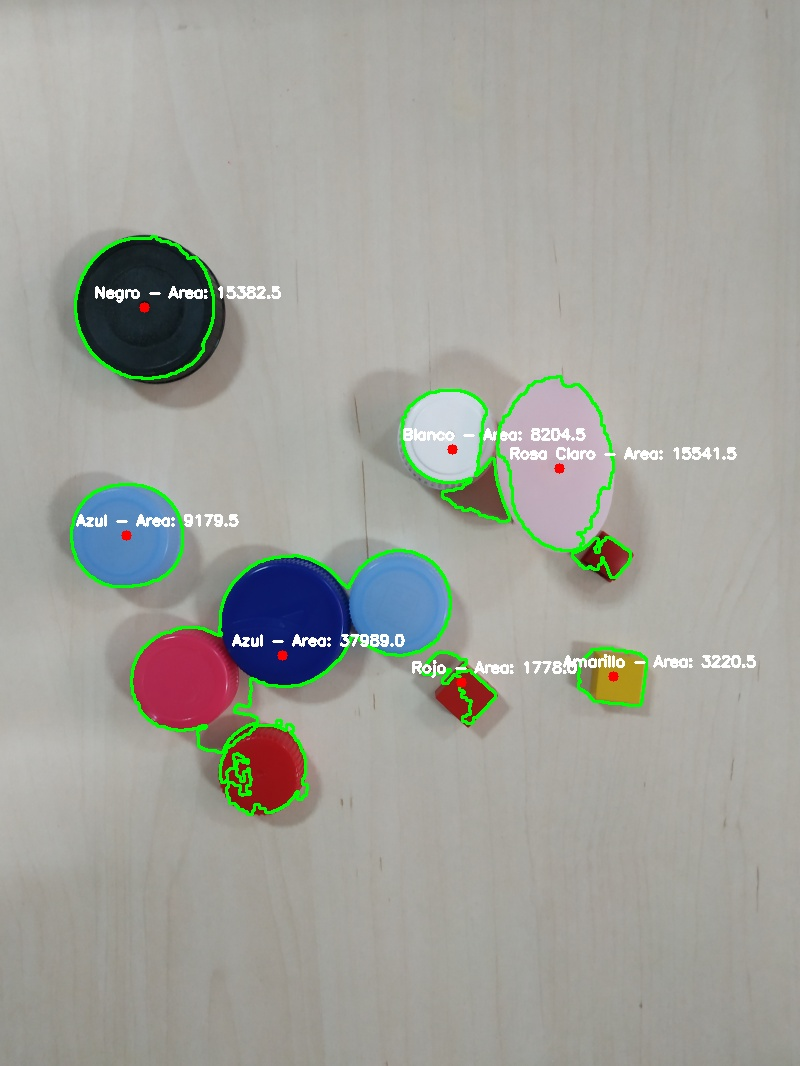
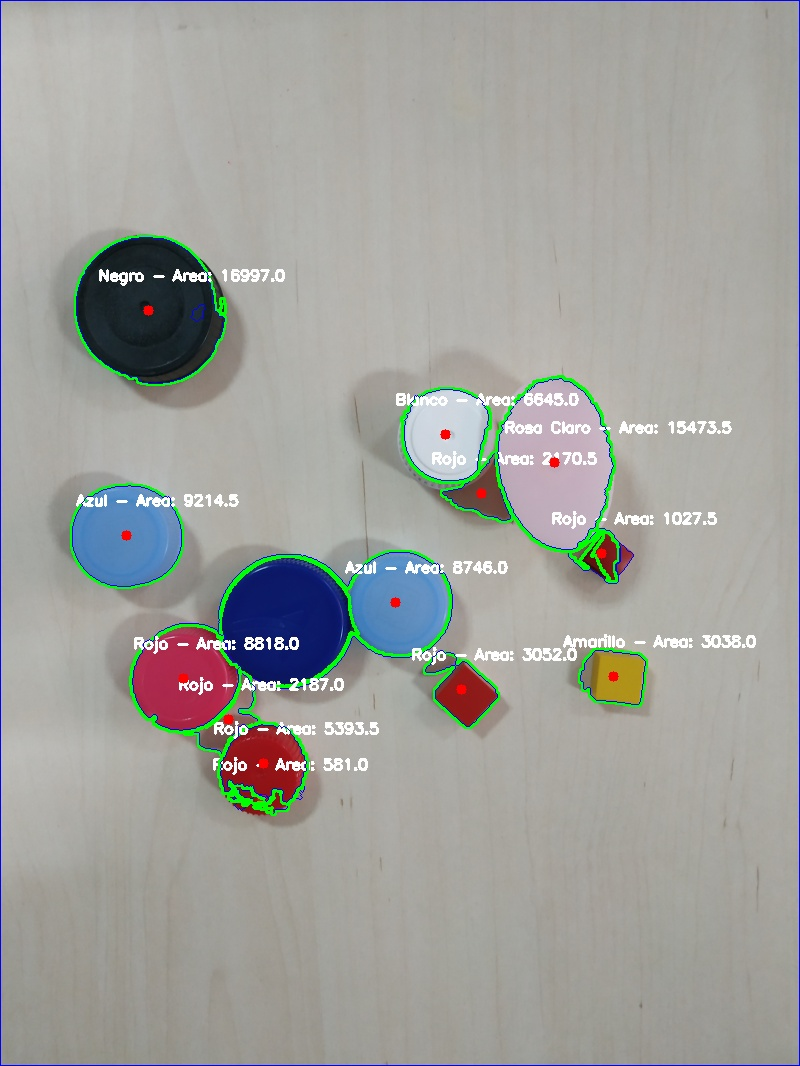
Corrigido bug en la detección de colores

diff --git a/DetectorTaponesMulticolor.py b/DetectorTaponesMulticolor.py
@@ -2,7 +2,7 @@ import cv2
 import numpy as np
 import os
 import imutils
-from visualizador_tapones import VisualizadorTapones  # Importamos la clase de visualización
+
 
 class DetectorTaponesMulticolor:
     """
@@ -17,7 +17,7 @@ class DetectorTaponesMulticolor:
         self.color_names = color_names
         self.min_area = min_area
         self.mostrar_mascaras = mostrar_mascaras
-        self.tapones_detectados = []  # Lista para almacenar los tapones detectados
+        self.tapones_detectados = []
 
         # Crear la carpeta de salida si no existe
         if not os.path.exists(self.output_folder):
@@ -43,9 +43,7 @@ class DetectorTaponesMulticolor:
 
     def detectar_tapon(self, imagen_path):
         """
-        Detecta tapones de múltiples colores en una imagen específica.
-
-        :param imagen_path: Ruta de la imagen a procesar.
+        Detecta tapones de múltiples colores en una imagen específica, aplicando umbrales Otsu y Watershed para la segmentación.
         """
         image = cv2.imread(imagen_path)
         if image is None:
@@ -54,100 +52,98 @@ class DetectorTaponesMulticolor:
 
         # Redimensionar la imagen para un procesamiento más rápido
         image_resized = imutils.resize(image, width=800)
-        # Mejorar la imagen con CLAHE
-        image_clahe = self.aplicar_clahe(image_resized)
+        
         # Convertir la imagen a espacio de color HSV
-        hsv = cv2.cvtColor(image_clahe, cv2.COLOR_BGR2HSV)
+        hsv = cv2.cvtColor(image_resized, cv2.COLOR_BGR2HSV)
 
-        # Aplicar un filtro de suavizado para reducir el ruido
-        hsv = cv2.GaussianBlur(hsv, (5, 5), 0)
-
-        # Inicializar máscara acumulativa
+        # Inicializar máscara final
         final_mask = np.zeros(hsv.shape[:2], dtype=np.uint8)
 
-        # Iterar sobre los rangos de colores
         for i, (lower_bound, upper_bound) in enumerate(self.color_ranges):
             # Crear máscara para el rango de color actual
             mask = cv2.inRange(hsv, np.array(lower_bound), np.array(upper_bound))
-            
+
             # Limpiar la máscara con operaciones morfológicas
             mask_cleaned = cv2.erode(mask, None, iterations=1)
             mask_cleaned = cv2.dilate(mask_cleaned, None, iterations=2)
 
-            # Mostrar la máscara si está habilitado
-            if self.mostrar_mascaras:
-                cv2.imshow(f"Mascara Color {i}", mask_cleaned)
+            # Convertir la máscara a escala de grises
+            gray_mask = cv2.cvtColor(cv2.bitwise_and(image_resized, image_resized, mask=mask_cleaned), cv2.COLOR_BGR2GRAY)
 
-            # Acumular la máscara
+            # Aplicar umbral de Otsu
+            _, otsu_thresh = cv2.threshold(gray_mask, 0, 255, cv2.THRESH_BINARY + cv2.THRESH_OTSU)
+
+            # Encontrar contornos con el umbral de Otsu
+            contours, _ = cv2.findContours(otsu_thresh, cv2.RETR_EXTERNAL, cv2.CHAIN_APPROX_SIMPLE)
+
+            # Procesar contornos
+            for contour in contours:
+                if cv2.contourArea(contour) > self.min_area:  # Filtrar por área mínima
+                    cv2.drawContours(image_resized, [contour], -1, (0, 255, 0), 2)  # Dibujar contorno
+
+                    M = cv2.moments(contour)  # Calcular momentos
+                    if M["m00"] != 0:
+                        # Calcular el centro del contorno
+                        cx = int(M["m10"] / M["m00"])
+                        cy = int(M["m01"] / M["m00"])
+                        cv2.circle(image_resized, (cx, cy), 5, (0, 0, 255), -1)
+
+                        # Calcular el área del contorno
+                        area = cv2.contourArea(contour)
+
+                        # Obtener el rectángulo delimitador (bounding box)
+                        x, y, w, h = cv2.boundingRect(contour)
+
+                        # Calcular el aspecto (relación entre ancho y alto)
+                        aspecto = w / float(h) if h != 0 else 0
+
+                        cv2.putText(image_resized, f"{self.color_names[i]} - Area: {area}", (cx - 50, cy - 30), 
+                                    cv2.FONT_HERSHEY_SIMPLEX, 0.5, (255, 255, 255), 2)  # Textos sobre la imagen
+
+                        # Guardar la información del tapón
+                        self.tapones_detectados.append({
+                            'color': self.color_names[i],
+                            'area': area,
+                            'centro': (cx, cy),
+                            'imagen': image_resized,
+                            'posicion': (x, y),
+                            'ancho': w,
+                            'alto': h,
+                            'aspecto': aspecto
+                        })
+
+            # Realizar segmentación con Watershed
+            sure_fg = cv2.erode(mask_cleaned, None, iterations=3)
+            sure_bg = cv2.dilate(mask_cleaned, None, iterations=3)
+            unknown = cv2.subtract(sure_bg, sure_fg)
+
+            # Crear los marcadores para Watershed
+            _, markers = cv2.connectedComponents(sure_fg)
+            markers = markers + 1
+            markers[unknown == 255] = 0
+
+            # Aplicar Watershed
+            markers = cv2.watershed(image_resized, markers)
+            image_resized[markers == -1] = [255, 0, 0]  # Bordes en rojo
+
+            # Acumular la máscara final
             final_mask = cv2.bitwise_or(final_mask, mask_cleaned)
-
-        if self.mostrar_mascaras:
-            cv2.waitKey(0)
-            cv2.destroyAllWindows()
-
-        # Aplicar la máscara acumulativa a la imagen original
-        colormaskHSV_filtered = cv2.bitwise_and(image_resized, image_resized, mask=final_mask)
-
-        # Encontrar contornos en la máscara final
-        contours, _ = cv2.findContours(final_mask, cv2.RETR_EXTERNAL, cv2.CHAIN_APPROX_SIMPLE)
-
-        # Procesar cada contorno
-        for contour in contours:
-            if cv2.contourArea(contour) > self.min_area:  # Filtrar por área mínima
-                cv2.drawContours(image_resized, [contour], -1, (0, 255, 0), 2)  # Dibujar contorno
-
-                M = cv2.moments(contour)  # Calcular momentos
-                if M["m00"] != 0:
-                    # Calcular el centro del contorno
-                    cx = int(M["m10"] / M["m00"])
-                    cy = int(M["m01"] / M["m00"])
-                    cv2.circle(image_resized, (cx, cy), 5, (0, 0, 255), -1)
-
-                    # Identificar el color del tapón por el color predominante en el contorno
-                    color_count = {}
-
-                    # Crear una máscara global para la región del contorno
-                    mask_contour = np.zeros_like(final_mask)
-                    cv2.drawContours(mask_contour, [contour], -1, (255), thickness=cv2.FILLED)
-
-                    # Iterar sobre los rangos de colores
-                    for i, (lower_bound, upper_bound) in enumerate(self.color_ranges):
-                        mask = cv2.inRange(hsv, np.array(lower_bound), np.array(upper_bound))
-                        
-                        # Aplicar la máscara del contorno sobre la máscara de color
-                        mask_color_in_contour = cv2.bitwise_and(mask, mask_contour)
-                        
-                        # Contar cuántos píxeles del color están dentro del contorno
-                        color_count[self.color_names[i]] = cv2.countNonZero(mask_color_in_contour)
-
-                    # Encontrar el color con más píxeles dentro del contorno
-                    color_name = max(color_count, key=color_count.get)
-
-                    # Calcular el área del contorno
-                    area = cv2.contourArea(contour)
-                    cv2.putText(image_resized, f"{color_name} - Area: {area}", (cx - 50, cy - 10), 
-                                cv2.FONT_HERSHEY_SIMPLEX, 0.5, (255, 255, 255), 2)
-
-                    # Guardar la información del tapón
-                    self.tapones_detectados.append({
-                        'color': color_name,
-                        'area': area,
-                        'centro': (cx, cy),
-                        'imagen': image_resized,  # Guardar la imagen procesada
-                        'contorno': contour  # Guardar el contorno también
-                    })
 
         # Guardar imágenes procesadas
         filename = os.path.basename(imagen_path)
         output_image_path = os.path.join(self.output_folder, f"contornos_{filename}")
         output_segmented_path = os.path.join(self.output_folder, f"segmentada_{filename}")
 
+        # Guardar la imagen con los contornos dibujados
         cv2.imwrite(output_image_path, image_resized)
-        cv2.imwrite(output_segmented_path, colormaskHSV_filtered)
-
         print(f"Imagen procesada guardada: {output_image_path}")
+
+        # Guardar la máscara segmentada acumulada
+        cv2.imwrite(output_segmented_path, final_mask)
         print(f"Imagen segmentada guardada: {output_segmented_path}")
 
+
+#Metodo para procesar el directorio,procesar la imagenes en el directorio 
     def procesar_directorio(self):
         """
         Procesa todas las imágenes en el directorio de entrada.
@@ -159,8 +155,6 @@ class DetectorTaponesMulticolor:
         for imagen in imagenes:
             imagen_path = os.path.join(self.input_folder, imagen)
             self.detectar_tapon(imagen_path)
-
-
 # Definir rangos de colores (HSV) ajustados
 color_ranges = [
     ([100, 50, 50], [140, 255, 255]),  # Azul
@@ -171,13 +165,59 @@ color_ranges = [
     ([0, 0, 0], [180, 255, 50]),      # Negro
     ([140, 50, 50], [170, 255, 255]), # Rosa
     ([140, 20, 180], [170, 80, 255]), # Rosa claro
-    ([90, 20, 180], [130, 80, 255]),  # Azul claro
-    ([0, 0, 220], [180, 40, 255])     # Blanco ajustado
+    #([90, 20, 180], [130, 80, 255]),  # Azul claro
+    ([90, 10, 180], [130, 60, 255])  # Rango ajustado entre azul claro y blanco ajustado
+    #([0, 0, 220], [180, 40, 255])     # Blanco 
 ]
 
-# Nombres de los colores correspondientes a los rangos HSV
-color_names = ["Azul", "Verde", "Rojo", "Rojo", "Amarillo", "Negro", "Rosa", "Rosa Claro", "Azul Claro", "Blanco"]
+def mostrar_resultados(self):
+    """ Mostrar los resultados detectados de los tapones sobre las imágenes """
+    if not self.tapones_detectados:
+        print("No se detectaron tapones.")
+        return
 
+    # Recorrer cada tapón detectado y mostrar los resultados sobre las imágenes
+    for i, tapon in enumerate(self.tapones_detectados, 1):
+        imagen_resultado = tapon['imagen'].copy()  # Hacer una copia de la imagen para modificarla sin perder la original
+
+        color = tapon.get('color', 'No disponible')
+        area = tapon.get('area', 'No disponible')
+        centro = tapon.get('centro', 'No disponible')
+        posicion = tapon.get('Posición', 'No disponible')
+        ancho = tapon.get('ancho', 'No disponible')
+        alto = tapon.get('alto', 'No disponible')
+        aspecto = tapon.get('aspecto', 'No disponible')
+
+        # Dibujar el texto sobre la imagen para mostrar los resultados
+        cv2.putText(imagen_resultado, f"Tapón {i}", (10, 30), cv2.FONT_HERSHEY_SIMPLEX, 1, (255, 255, 255), 2)
+        cv2.putText(imagen_resultado, f"Color: {color}", (10, 60), cv2.FONT_HERSHEY_SIMPLEX, 0.8, (255, 255, 255), 2)
+        cv2.putText(imagen_resultado, f"Área: {area}", (10, 90), cv2.FONT_HERSHEY_SIMPLEX, 0.8, (255, 255, 255), 2)
+        cv2.putText(imagen_resultado, f"Centro: {str(centro)}", (10, 120), cv2.FONT_HERSHEY_SIMPLEX, 0.8, (255, 255, 255), 2)
+        cv2.putText(imagen_resultado, f"Pos: {str(posicion)}", (10, 150), cv2.FONT_HERSHEY_SIMPLEX, 0.8, (255, 255, 255), 2)
+        cv2.putText(imagen_resultado, f"Ancho: {ancho}", (10, 180), cv2.FONT_HERSHEY_SIMPLEX, 0.8, (255, 255, 255), 2)
+        cv2.putText(imagen_resultado, f"Alto: {alto}", (10, 210), cv2.FONT_HERSHEY_SIMPLEX, 0.8, (255, 255, 255), 2)
+        cv2.putText(imagen_resultado, f"Aspecto: {aspecto:.2f}", (10, 240), cv2.FONT_HERSHEY_SIMPLEX, 0.8, (255, 255, 255), 2)
+
+        # Dibujar el contorno y el centro del tapón
+        cv2.circle(imagen_resultado, tapon['centro'], 5, (0, 0, 255), -1)  # Centro en rojo
+        cv2.rectangle(imagen_resultado, (tapon['Posición'][0], tapon['Posición'][1]), 
+                      (tapon['Posición'][0] + tapon['ancho'], tapon['Posición'][1] + tapon['alto']), 
+                      (0, 255, 0), 2)  # Rectángulo verde alrededor del tapón
+
+        # Mostrar la imagen con los resultados
+        cv2.imshow(f"Tapón {i} - {color}", imagen_resultado)
+        
+        # Si necesitas guardar las imágenes procesadas con los resultados:
+        output_image_path = os.path.join(self.output_folder, f"resultado_tapon_{i}.png")
+        cv2.imwrite(output_image_path, imagen_resultado)
+        print(f"Imagen resultado guardada: {output_image_path}")
+
+    cv2.waitKey(0)  # Esperar que el usuario cierre la ventana
+    cv2.destroyAllWindows()  # Cerrar todas las ventanas abiertas de OpenCV
+
+
+# Nombres de los colores correspondientes a los rangos HSV
+color_names = ["Azul", "Verde", "Rojo", "Rojo", "Amarillo", "Negro", "Rosa", "Rosa Claro","Blanco"]
 # Rutas de entrada y salida
 input_folder = "imagenes_tapon"
 output_folder = "imagenes_tapon_detectados"
@@ -185,7 +225,3 @@ output_folder = "imagenes_tapon_detectados"
 # Crear instancia de la clase y procesar imágenes
 detector = DetectorTaponesMulticolor(input_folder, output_folder, color_ranges, color_names, min_area=500, mostrar_mascaras=False)
 detector.procesar_directorio()
-
-# Crear instancia de la clase VisualizadorTapones para mostrar los resultados
-visualizador = VisualizadorTapones(detector.tapones_detectados)
-visualizador.mostrar()
